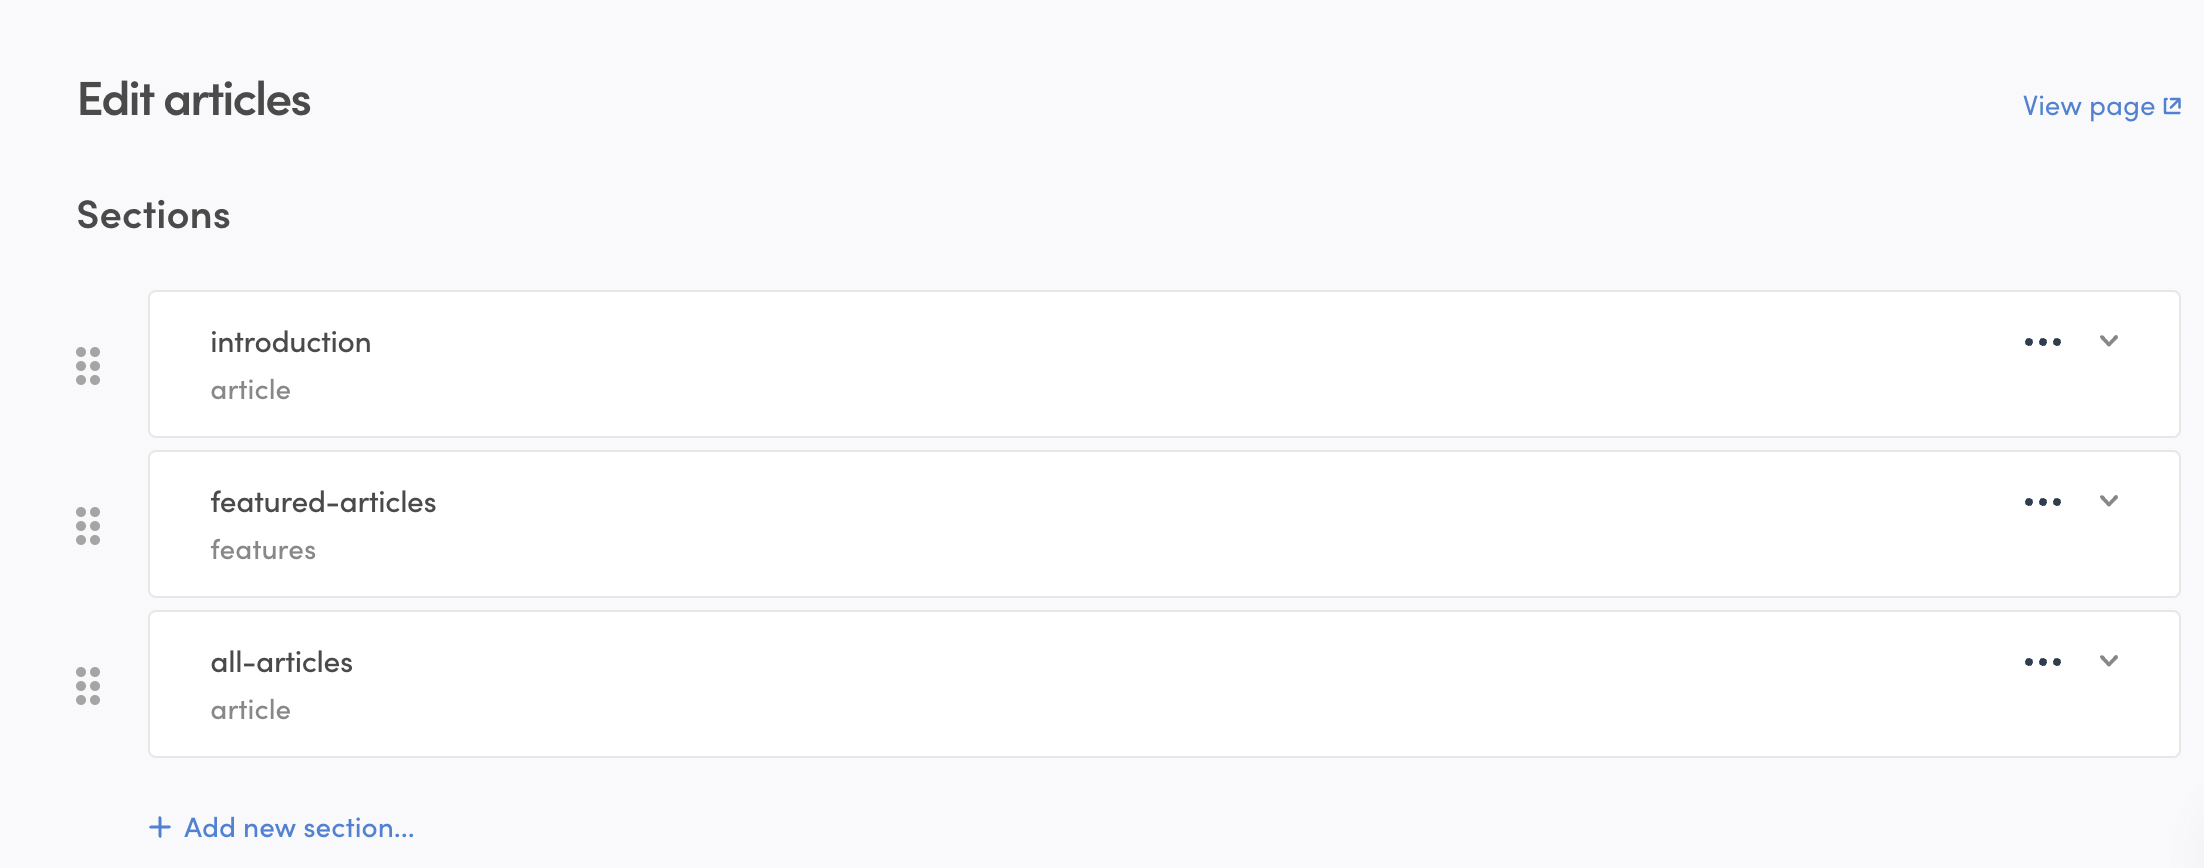
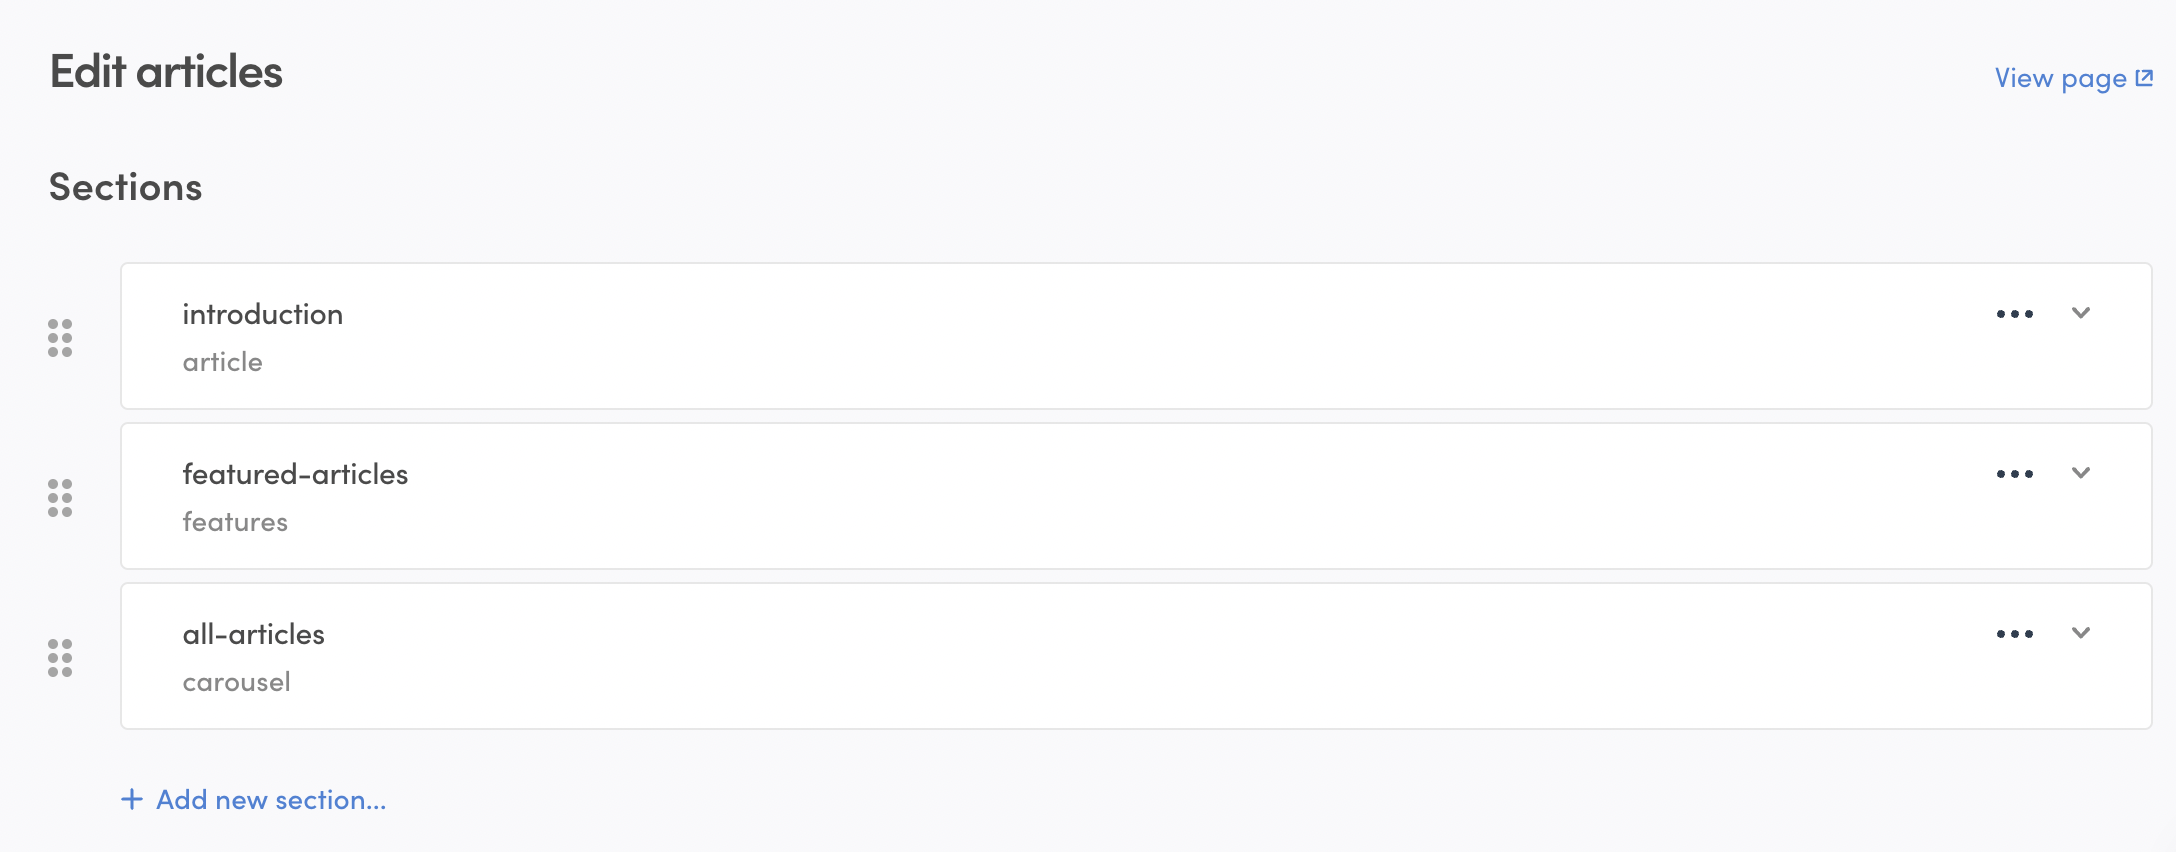
Explain carousel section

diff --git a/src/docs/concepts-development/content-management/index.md b/src/docs/concepts-development/content-management/index.md
@@ -103,8 +103,8 @@ sections.
 
 ## Sections
 
-Flex has X default content sections that you can select for your page.
-All sections have a title, an ingress, and a button for a call to
+Flex has four default content sections that you can select for your
+page. All sections have a title, an ingress, and a button for a call to
 action.
 
 ### Article
@@ -128,6 +128,13 @@ that the block contents are on a single row, alternating the order, and
 different blocks are in a column. As with all content sections, the
 designer of your website can make changes as to how exactly the blocks
 get displayed on the page.
+
+### Carousel
+
+The carousel section shows content blocks side by side, in a carousel
+that can be browsed by swiping or scrolling. Carousel sections work
+great for a long array of blocks that the reader may or may not want to
+investigate in more depth.
 
 ## Blocks
 

diff --git a/src/docs/howto-content/article-blog/index.md b/src/docs/howto-content/article-blog/index.md
@@ -80,9 +80,9 @@ Let's add the following sections to this main page:
 - Featured articles with _features_ template. You can use this section
   to highlight your most important content, best performing articles, or
   an interesting series of posts.
-- List of all articles with _article_ template. You can use this section
-  to list all your articles, either ordered chronologically or in some
-  other way you prefer.
+- List of all articles with _carousel_ template. You can use this
+  section to list all your articles, either ordered chronologically or
+  in some other way you prefer.
 
 ![Articles sections](articles-sections.png 'Articles sections')
 
